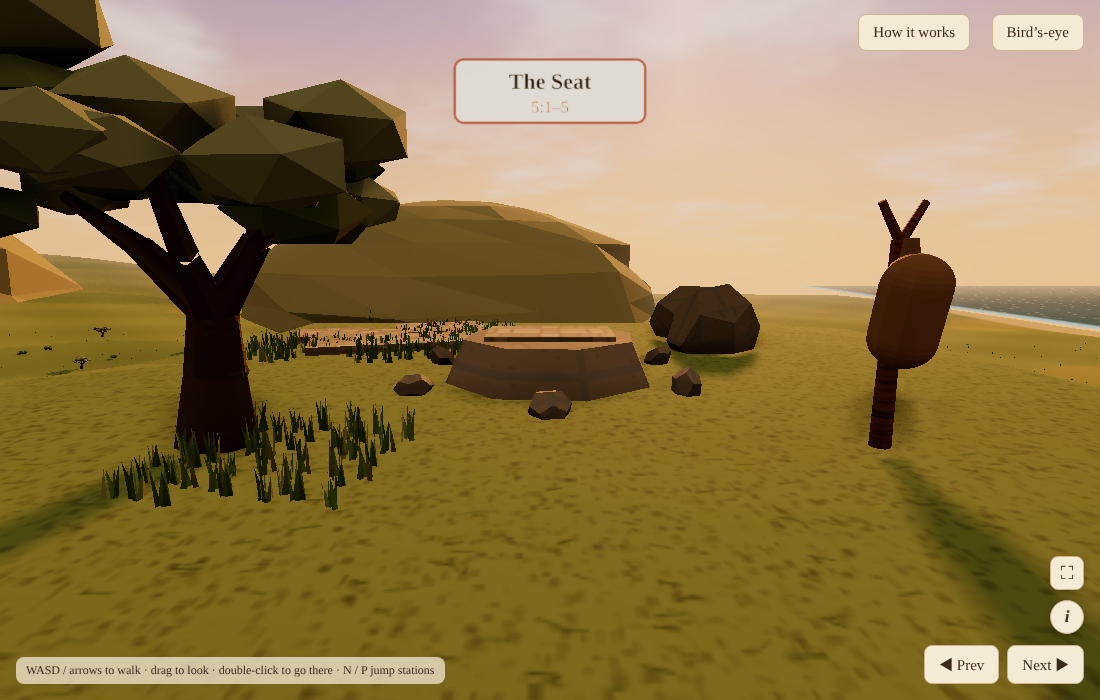
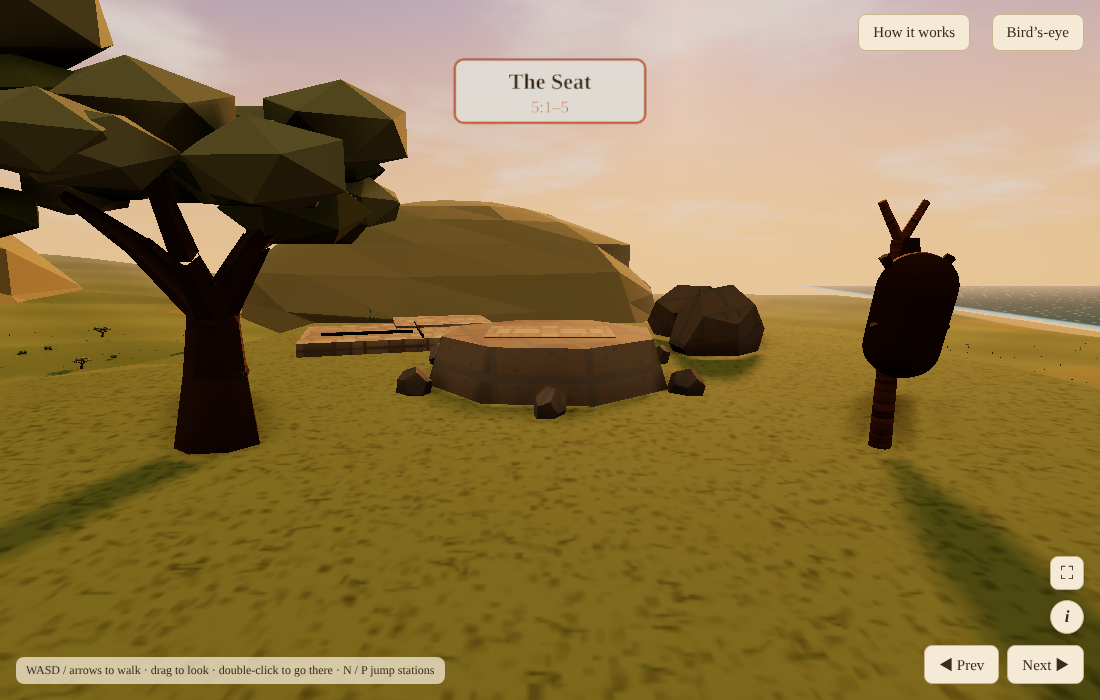
Sermon on the Mount: phase 3 fixes for the Seat, the Bee Bank, the Ridge Road and the Spring
Claude-Session: https://claude.ai/code/session_011GTaBjBmrRYMxR8CbFEKPF

Changed region(s): [[0.0927, 0.45, 0.7109, 0.72], [0.7727, 0.33, 0.8964, 0.54]]

diff --git a/som-ltm/world/mount.js b/som-ltm/world/mount.js
@@ -44,12 +44,12 @@ function finishRoom(ch, r, F, spots) {
 // ---- 5.1 THE SEAT (5:1–5): olive tree · limestone pavement · split boulder with a thornbush · water bag on a stake · the seat-rock ----
 defBuilder('som.seat', (r, { ch }) => { const F = roomFrame(r), h = 2.6, sp = SQ(h).map(([f, s]) => F.at(f, s)), out = [];
   { const [x, z] = sp[0]; libAt('olive-tree-gnarled', x, z, 0, 1); out.push(ground([x, z], .6)); }
-  { const g = atR(F, h, -h, .3); box(2.6, .14, 1.8, paleM, 0, -.02, 0, g); box(1.6, .12, 1.3, paleM, .9, .01, -.9, g); box(1.2, .1, 1, paleM, -1, .02, -.8, g); out.push(ground(sp[1], .25)); }   // bare limestone pavement, in broken pale slabs
-  { const [x, z] = sp[2]; const a = somRock(x - .62, z, .85), b = somRock(x + .62, z + .05, .8); libAt('shrub-cluster', x, z, 0, .55); out.push({ x, z, y: Math.max(a, b) + .1 }); }   // the split boulder: two halves, a caper bush in the gap
+  { const g = atR(F, h, -h, .3); box(2.8, .22, 2, paleM, 0, -.02, 0, g); box(1.7, .2, 1.4, paleM, .9, .04, -1, g); box(.02, .05, 1.8, darkM, .4, .2, 0, g); box(1.4, .05, .02, darkM, -.4, .2, .3, g); out.push(ground(sp[1], .32)); }   // bare limestone pavement, pale and cracked
+  { const [x, z] = sp[2]; const a = somRock(x - .8, z, .85), b = somRock(x + .8, z + .05, .8); for (let k = 0; k < 9; k++) { const t = add(new THREE.ConeGeometry(.05, .5, 4), mat('somThorn', '#5a6a32'), x + R(-.2, .2), heightAt(x, z) + R(.2, .7), z + R(-.25, .25)); t.rotation.set(R(-.6, .6), 0, R(-.6, .6)); } out.push({ x, z, y: Math.max(a, b) + .1 }); }   // the split boulder, a thornbush in the gap
   { const g = atR(F, -h, h); const st = cyl(.06, .08, 1.6, 6, 'wood', 0, 0, 0, g); for (const k of [-1, 1]) { const fk = cyl(.03, .04, .35, 5, 'wood', k * .08, 1.55, 0, g); fk.rotation.z = -k * .5; }
-    const bag = add(new THREE.CapsuleGeometry(.24, .38, 4, 10), mat('somSkin', '#a07a50'), 0, 1.08, .2, g); bag.rotation.x = .25; cyl(.05, .07, .16, 6, mat('somSkin', '#a07a50'), 0, 1.45, .14, g); out.push(ground(sp[3], 1.75)); }   // the goatskin water bag hung on a forked stake
-  { const [cx, cz] = sp[4]; const seat = cyl(1.05, 1.3, .55, 8, rockM, cx, F.y - .05, cz); seat.rotation.y = .3; box(1.5, .06, 1, paleM, cx, F.y + .5, cz).rotation.y = F.yaw; for (let k = 0; k < 6; k++) { const a = k / 6 * 6.28; somRock(cx + Math.cos(a) * 1.7, cz + Math.sin(a) * 1.7, .22); } out.push({ x: cx, z: cz, y: F.y + .7 }); }   // the flat seat-rock where he sat
-  { for (let k = 0; k < 4; k++) { const [x, z] = F.at(R(-4, 4), R(-4.5, 4.5)); libAt('grass-tufts', x, z, R(0, 6), 1); } }
+    const sk = mat('somSkin2', '#5a3c26'); sk.map = TEX.cloth; const bag = add(new THREE.CapsuleGeometry(.26, .42, 4, 10), sk, 0, 1.05, .2, g); bag.rotation.x = .25; for (const [lx, ly] of [[-.2, .82], [.2, .82], [-.18, 1.3], [.18, 1.3]]) { const lg = cyl(.04, .03, .2, 5, sk, lx, ly, .22, g); lg.rotation.z = lx < 0 ? .6 : -.6; } cyl(.05, .07, .16, 6, sk, 0, 1.45, .14, g); out.push(ground(sp[3], 1.75)); }   // the goatskin water bag, its tied legs and neck, hung on a forked stake
+  { const [cx, cz] = sp[4]; const seat = cyl(1.3, 1.5, .6, 8, rockM, cx, F.y - .05, cz); seat.rotation.y = .3; box(1.5, .06, 1, paleM, cx, F.y + .5, cz).rotation.y = F.yaw; for (let k = 0; k < 6; k++) { const a = k / 6 * 6.28; somRock(cx + Math.cos(a) * 1.7, cz + Math.sin(a) * 1.7, .22); } out.push({ x: cx, z: cz, y: F.y + .7 }); }   // the flat seat-rock where he sat
+
   finishRoom(ch, r, F, out); });
 
 // ---- 5.2 THE SHEEPFOLD (5:6–10): gateway · slab-roofed corner · oak corner · crook on the wall · water trough ----
@@ -113,10 +113,10 @@ defBuilder('som.charcoal', (r, { ch }) => { const F = roomFrame(r), h = 2.6, sp 
 defBuilder('som.bees', (r, { ch }) => { const F = roomFrame(r), h = 2.5, sp = SQ(h).map(([f, s]) => F.at(f, s)), out = [];
   { const g = atR(F, .2, -h - .9); box(1.1, .8, 2 * h + .9, dryStone, 0, 0, 0, g); }                         // the bank along the left side, from near to far
   { const [x, z] = sp[0]; box(1.2, .9, 1.2, dryStone, x, heightAt(x, z) - .05, z); add(new THREE.SphereGeometry(.62, 8, 5, 0, 6.3, 0, 1.57), rockM, x, heightAt(x, z) + .85, z); out.push(ground(sp[0], 1.5)); }   // the bank's rounded end, with its capstone   // the capstone on its near end
-  { const g = atR(F, h + .6, -h + .3); box(1.2, 1.4, 2.6, dryStone, 0, 0, 0, g); for (let row = 0; row < 3; row++) for (let k = 0; k < 4; k++) { const p = cyl(.16, .16, 1.3, 8, clayM, -.05, .2 + row * .36, -.95 + k * .38 + (row % 2) * .19, g); p.rotation.x = Math.PI / 2; p.position.y = .25 + row * .36; } out.push(ground(sp[1], 1.5)); }
+  { const g = atR(F, h, -h); for (let row = 0; row < 3; row++) for (let k = 0; k < 3 - row; k++) { const p = cyl(.2, .2, 1.1, 10, clayM, (k - (2 - row) / 2) * .44, 0, 0, g); p.rotation.x = Math.PI / 2; p.position.y = .2 + row * .38; add(new THREE.CircleGeometry(.12, 10), darkM, (k - (2 - row) / 2) * .44, .2 + row * .38, .56, g); } out.push(ground(sp[1], 1.25)); }   // the stacked clay hive pipes, mouths towards you
   { const g = atR(F, h, h); somRock(...F.at(h, h), .45); cyl(.16, .2, .42, 8, clayM, 0, .5, 0, g); const sp2 = cyl(.04, .06, .3, 6, clayM, .16, .82, 0, g); sp2.rotation.z = -.6; for (let k = 0; k < 4; k++) { const m = add(new THREE.SphereGeometry(.12 + k * .06, 8, 6), mat('somSmoke', '#e6e1da', { transparent: true, opacity: .5 }), .3 + k * .12, 1.0 + k * .3, 0, g); } out.push(ground(sp[2], 1.0)); }   // the smoker pot, smoking
-  { const g = atR(F, -h, h); cyl(.45, .35, .14, 14, clayM, 0, 0, 0, g); cyl(.4, .4, .02, 14, mat('somWater', '#4f8fa6'), 0, .12, 0, g); for (let k = 0; k < 3; k++) add(new THREE.DodecahedronGeometry(.07, 0), rockM, -.15 + k * .15, .14, R(-.1, .1), g); out.push(ground(sp[3], .3)); }   // the bees' water dish, with stones to land on
-  { const g = atR(F, 0, 0); box(.9, .45, .7, rockM, 0, 0, 0, g); box(.7, .06, .5, 'woodLt', 0, .45, 0, g); for (let k = 0; k < 3; k++) box(.18, .08, .4, combM, -.22 + k * .22, .51, 0, g); out.push({ x: F.x, z: F.z, y: F.y + .62 }); }
+  { const g = atR(F, -h, h); const bw = add(new THREE.SphereGeometry(.45, 14, 6, 0, 6.3, Math.PI / 2, Math.PI / 2), clayM, 0, .3, 0, g); bw.material.side = THREE.DoubleSide; add(new THREE.CircleGeometry(.4, 14), mat('somWater', '#6fb3c8'), 0, .24, 0, g).rotation.x = -Math.PI / 2; for (let k = 0; k < 3; k++) add(new THREE.DodecahedronGeometry(.07, 0), rockM, -.15 + k * .15, .27, R(-.1, .1), g); out.push(ground(sp[3], .45)); }   // a shallow clay bowl of water, stones for the bees to land on
+  { const g = atR(F, 0, 0); box(1.1, .6, .8, rockM, 0, 0, 0, g); box(1, .07, .7, 'woodLt', 0, .6, 0, g); for (let k = 0; k < 4; k++) { const c2 = box(.2, .1, .55, combM, -.33 + k * .22, .67, 0, g); c2.material.map = TEX.wicker; } out.push({ x: F.x, z: F.z, y: F.y + .85 }); }   // the tray of golden comb on a stone
   finishRoom(ch, r, F, out); });
 
 // ---- 5.8 THE SHEPHERDS' CAMP (5:36–40): guy-rope peg · the tent's open front and pole · quern · ground loom · hearth stones ----
@@ -132,11 +132,11 @@ defBuilder('som.camp', (r, { ch }) => { const F = roomFrame(r), h = 2.5, sp = SQ
 // ---- 5.9 THE RIDGE ROAD (5:41–45): gully culvert stones · carob tree · half-buried amphora · broken cart · the resting stone at the fork ----
 defBuilder('som.road', (r, { ch }) => { const F = roomFrame(r), h = 2.6, sp = SQ(h).map(([f, s]) => F.at(f, s)), out = [];
   { const [a, b] = F.at(0, 0), [c, d] = F.at(30, 6); drape(Math.min(a, c) - 1.5, Math.min(b, d), Math.max(a, c) + 1.5, Math.max(b, d), 'path', .02); }   // the track forking off north
-  { const g = atR(F, -h, -h); for (const s of [-.55, .55]) box(.4, .5, 1.1, rockM, s, -.15, 0, g); box(1.5, .14, 1.1, rockDk, 0, .3, 0, g); out.push(ground(sp[0], .55)); }
+  { const [x, z] = sp[0], y = heightAt(x, z); add(new THREE.BoxGeometry(2.2, .05, 1.2), darkM, x, y + .01, z).rotation.y = F.yaw; for (const sd of [-1, 1]) for (let k = 0; k < 4; k++) { const [rx, rz] = F.at(-h + (k - 1.5) * .35, -h + sd * .75); somRock(rx, rz, .3, y); } const g = atR(F, -h, -h); const arch = add(new THREE.TorusGeometry(.6, .22, 6, 10, Math.PI), rockM, 0, 0, 0, g); arch.rotation.y = Math.PI / 2; out.push(ground(sp[0], .85)); }   // culvert stones arching over the gully
   { const [x, z] = F.at(h + .6, -h - .6); tree(x, z, 1.3); out.push(ground(sp[1], .6)); }
-  { const g = atR(F, h, h, .8); const a = add(new THREE.SphereGeometry(.32, 8, 6), clayM, 0, .1, 0, g); a.scale.y = 1.5; a.rotation.z = 1.1; cyl(.07, .1, .35, 6, clayM, .45, .25, 0, g).rotation.z = 1.1; out.push(ground(sp[2], .55)); }
-  { const g = atR(F, -h, h, .4); box(1.3, .12, 2, 'woodLt', 0, .55, 0, g).rotation.z = .2; const w = cyl(.5, .5, .1, 10, 'wood', .7, .5, .3, g); w.rotation.z = Math.PI / 2; const w2 = cyl(.5, .5, .1, 10, 'wood', -.75, .1, -.4, g); w2.rotation.x = Math.PI / 2; somRock(...F.at(-h + .2, h - .6), .3); out.push(ground(sp[3], .95)); }
-  { const g = atR(F, 0, 0, .5); box(1.3, .35, .8, rockM, 0, 0, 0, g); out.push({ x: F.x, z: F.z, y: F.y + .45 }); }
+  { const g = atR(F, h, h, .8); const pts = [[0, 0], [.32, .1], [.42, .5], [.38, .9], [.14, 1.15], [.12, 1.4], [.18, 1.45]].map(([a, b]) => new THREE.Vector2(a, b)); const am = add(new THREE.LatheGeometry(pts, 12), clayM, 0, -.35, 0, g); am.rotation.z = .9; for (const sd of [-1, 1]) { const hd = add(new THREE.TorusGeometry(.12, .03, 5, 8, Math.PI), clayM, -.75, .45, sd * .14, g); hd.rotation.z = .9; } out.push(ground(sp[2], .7)); }   // the old amphora, half-buried by the road
+  { const [x, z] = sp[3]; libAt('hand-cart', x, z, F.yaw + .5, 1, -.15); const [wx, wz] = F.at(-h - .9, h + .9); const w = libAt('cart-wheel', wx, wz, 0, 1); out.push(ground(sp[3], 1.0)); }   // the cart, one wheel off and lying in the grass
+  { const g = atR(F, 0, 0, .5); box(1.8, .5, 1.1, paleM, 0, 0, 0, g); out.push({ x: F.x, z: F.z, y: F.y + .6 }); }   // the flat resting stone at the fork
   { const [x, z] = F.at(5, 4); const g = new THREE.Group(); g.position.set(x, heightAt(x, z), z); scene.add(g); const b = add(new THREE.CapsuleGeometry(.45, 1.1, 3, 8), mat('somCamel', '#b8915c'), 0, .5, 0, g); b.rotation.z = Math.PI / 2; add(new THREE.SphereGeometry(.4, 8, 6), mat('somCamel', '#b8915c'), 0, 1, 0, g); }   // a camel resting beyond the fork
   finishRoom(ch, r, F, out); });
 

diff --git a/som-ltm/world/farm.js b/som-ltm/world/farm.js
@@ -60,12 +60,12 @@ defBuilder('som.bake', (r, { ch }) => { const F = roomFrame(r), h = 2.5, sp = SQ
 // ---- 6.4 THE SPRING (6:16–20): spout · oil flask on a ledge (v) · wash-line · willow · flat stones across the outflow ----
 defBuilder('som.spring', (r, { ch }) => { const F = roomFrame(r), h = 2.5, sp = SQ(h).map(([f, s]) => F.at(f, s)), out = [];
   { const g = atR(F, h + 1.1, 0); box(2 * h + 4, 3.2, 1.4, rockM, 0, -.4, 0, g); }   // the rock face the spring comes out of
-  { const g = atR(F, -h, -h); box(.7, 1.2, .6, paleM, 0, 0, 0, g); const p2 = cyl(.07, .07, .5, 8, mat('somBronze', '#8a6a3a'), 0, .95, .3, g); p2.rotation.x = Math.PI / 2; cyl(.04, .04, .9, 6, mat('somWater', '#6fb3c8'), 0, .1, .55, g); out.push(ground(sp[0], 1.35)); }   // the spout: a carved stone, a pipe, the water falling
-  { const g = atR(F, h, -h); box(1.1, .9, .6, rockM, 0, 0, 0, g); const fl = add(new THREE.SphereGeometry(.12, 8, 6), mat('somFlask', '#d9c27a'), 0, 1.02, 0, g); fl.scale.y = 1.5; cyl(.03, .04, .14, 6, mat('somFlask', '#d9c27a'), 0, 1.18, 0, g); out.push(ground(sp[1], 1.35)); }   // flask of oil on a ledge of rock
+  { const g = atR(F, -h, -h); box(1.1, 1.4, .7, rockM, 0, 0, -.3, g); const sp2 = box(.3, .16, .7, paleM, 0, 1.05, .2, g); add(new THREE.CircleGeometry(.08, 8), darkM, 0, 1.05, .56, g); const fallW = cyl(.06, .1, 1.05, 8, mat('somFall', '#9fd0e0', { transparent: true, opacity: .8 }), 0, 0, .58, g); add(new THREE.CircleGeometry(.4, 14), mat('somWater', '#6fb3c8'), 0, .03, .6, g).rotation.x = -Math.PI / 2; out.push(ground(sp[0], 1.4)); }   // the stone spout, water falling from it into a little pool
+  { const g = atR(F, h, -h); box(1.2, 1, .7, rockM, 0, 0, 0, g); const fl = add(new THREE.SphereGeometry(.2, 10, 8), mat('somFlask', '#d9c27a'), 0, 1.2, 0, g); fl.scale.y = 1.45; cyl(.05, .07, .22, 8, mat('somFlask', '#d9c27a'), 0, 1.5, 0, g); cyl(.06, .06, .05, 8, 'wood', 0, 1.62, 0, g); out.push(ground(sp[1], 1.75)); }   // the flask of oil on its ledge of rock
   { const [x, z] = sp[2]; out.push({ x, z, y: libAt('laundry-rack', x, z, F.yaw, 1) }); }   // the wash-line with a tunic drying
-  { const [x, z] = F.at(-h - .9, h + 1.1); tree(x, z, 1.1); for (let k = 0; k < 14; k++) { const fr = add(new THREE.CylinderGeometry(.02, .12, 1.6, 4), willowM, x + R(-1.2, 1.2), heightAt(x, z) + R(1.6, 2.6), z + R(-1.2, 1.2)); fr.rotation.z = R(-.15, .15); } out.push(ground(sp[3], .6)); }   // the willow, its fronds hanging
+  { const [x, z] = F.at(-h - 1.6, h + 2); const y = heightAt(x, z); const tr = cyl(.14, .22, 1.8, 7, 'wood', x, y, z); tr.rotation.z = .12; for (let k = 0; k < 26; k++) { const a = k / 26 * 6.28, rr = R(.4, 1.2); const fr = add(new THREE.CylinderGeometry(.015, .05, R(1.2, 1.9), 3), willowM, x + Math.cos(a) * rr, y + R(1.3, 1.9), z + Math.sin(a) * rr); fr.rotation.set(Math.sin(a) * .15, 0, -Math.cos(a) * .15); } out.push(ground(sp[3], .6)); }   // the willow on the bank, its thin fronds hanging
   { const m = add(new THREE.PlaneGeometry(1.3, 2 * h + 4), waterM, 0, 0, 0); m.rotation.x = -Math.PI / 2; m.rotation.z = -F.yaw + Math.PI / 2; m.position.set(F.x, F.y + .04, F.z);
-    for (let k = -1; k <= 1; k++) { const [x, z] = F.at(k * .9, k * .25); const st = box(.6, .16, .55, paleM, x, F.y, z); st.rotation.y = F.yaw + k * .4; } out.push({ x: F.x, z: F.z, y: F.y + .3 }); }   // the outflow and its flat stones
+    for (let k = -1; k <= 1; k++) { const [x, z] = F.at(k * .85, k * .15); const st = cyl(.42, .48, .22, 9, paleM, x, F.y, z); st.rotation.y = k; } out.push({ x: F.x, z: F.z, y: F.y + .3 }); }   // the outflow and its flat stones
   { const [x, z] = F.at(-.8, -h + .6); box(.9, .03, .5, clothM, x, heightAt(x, z) + .02, z); }   // a linen towel spread on the rocks
   finishRoom(ch, r, F, out); });
 
